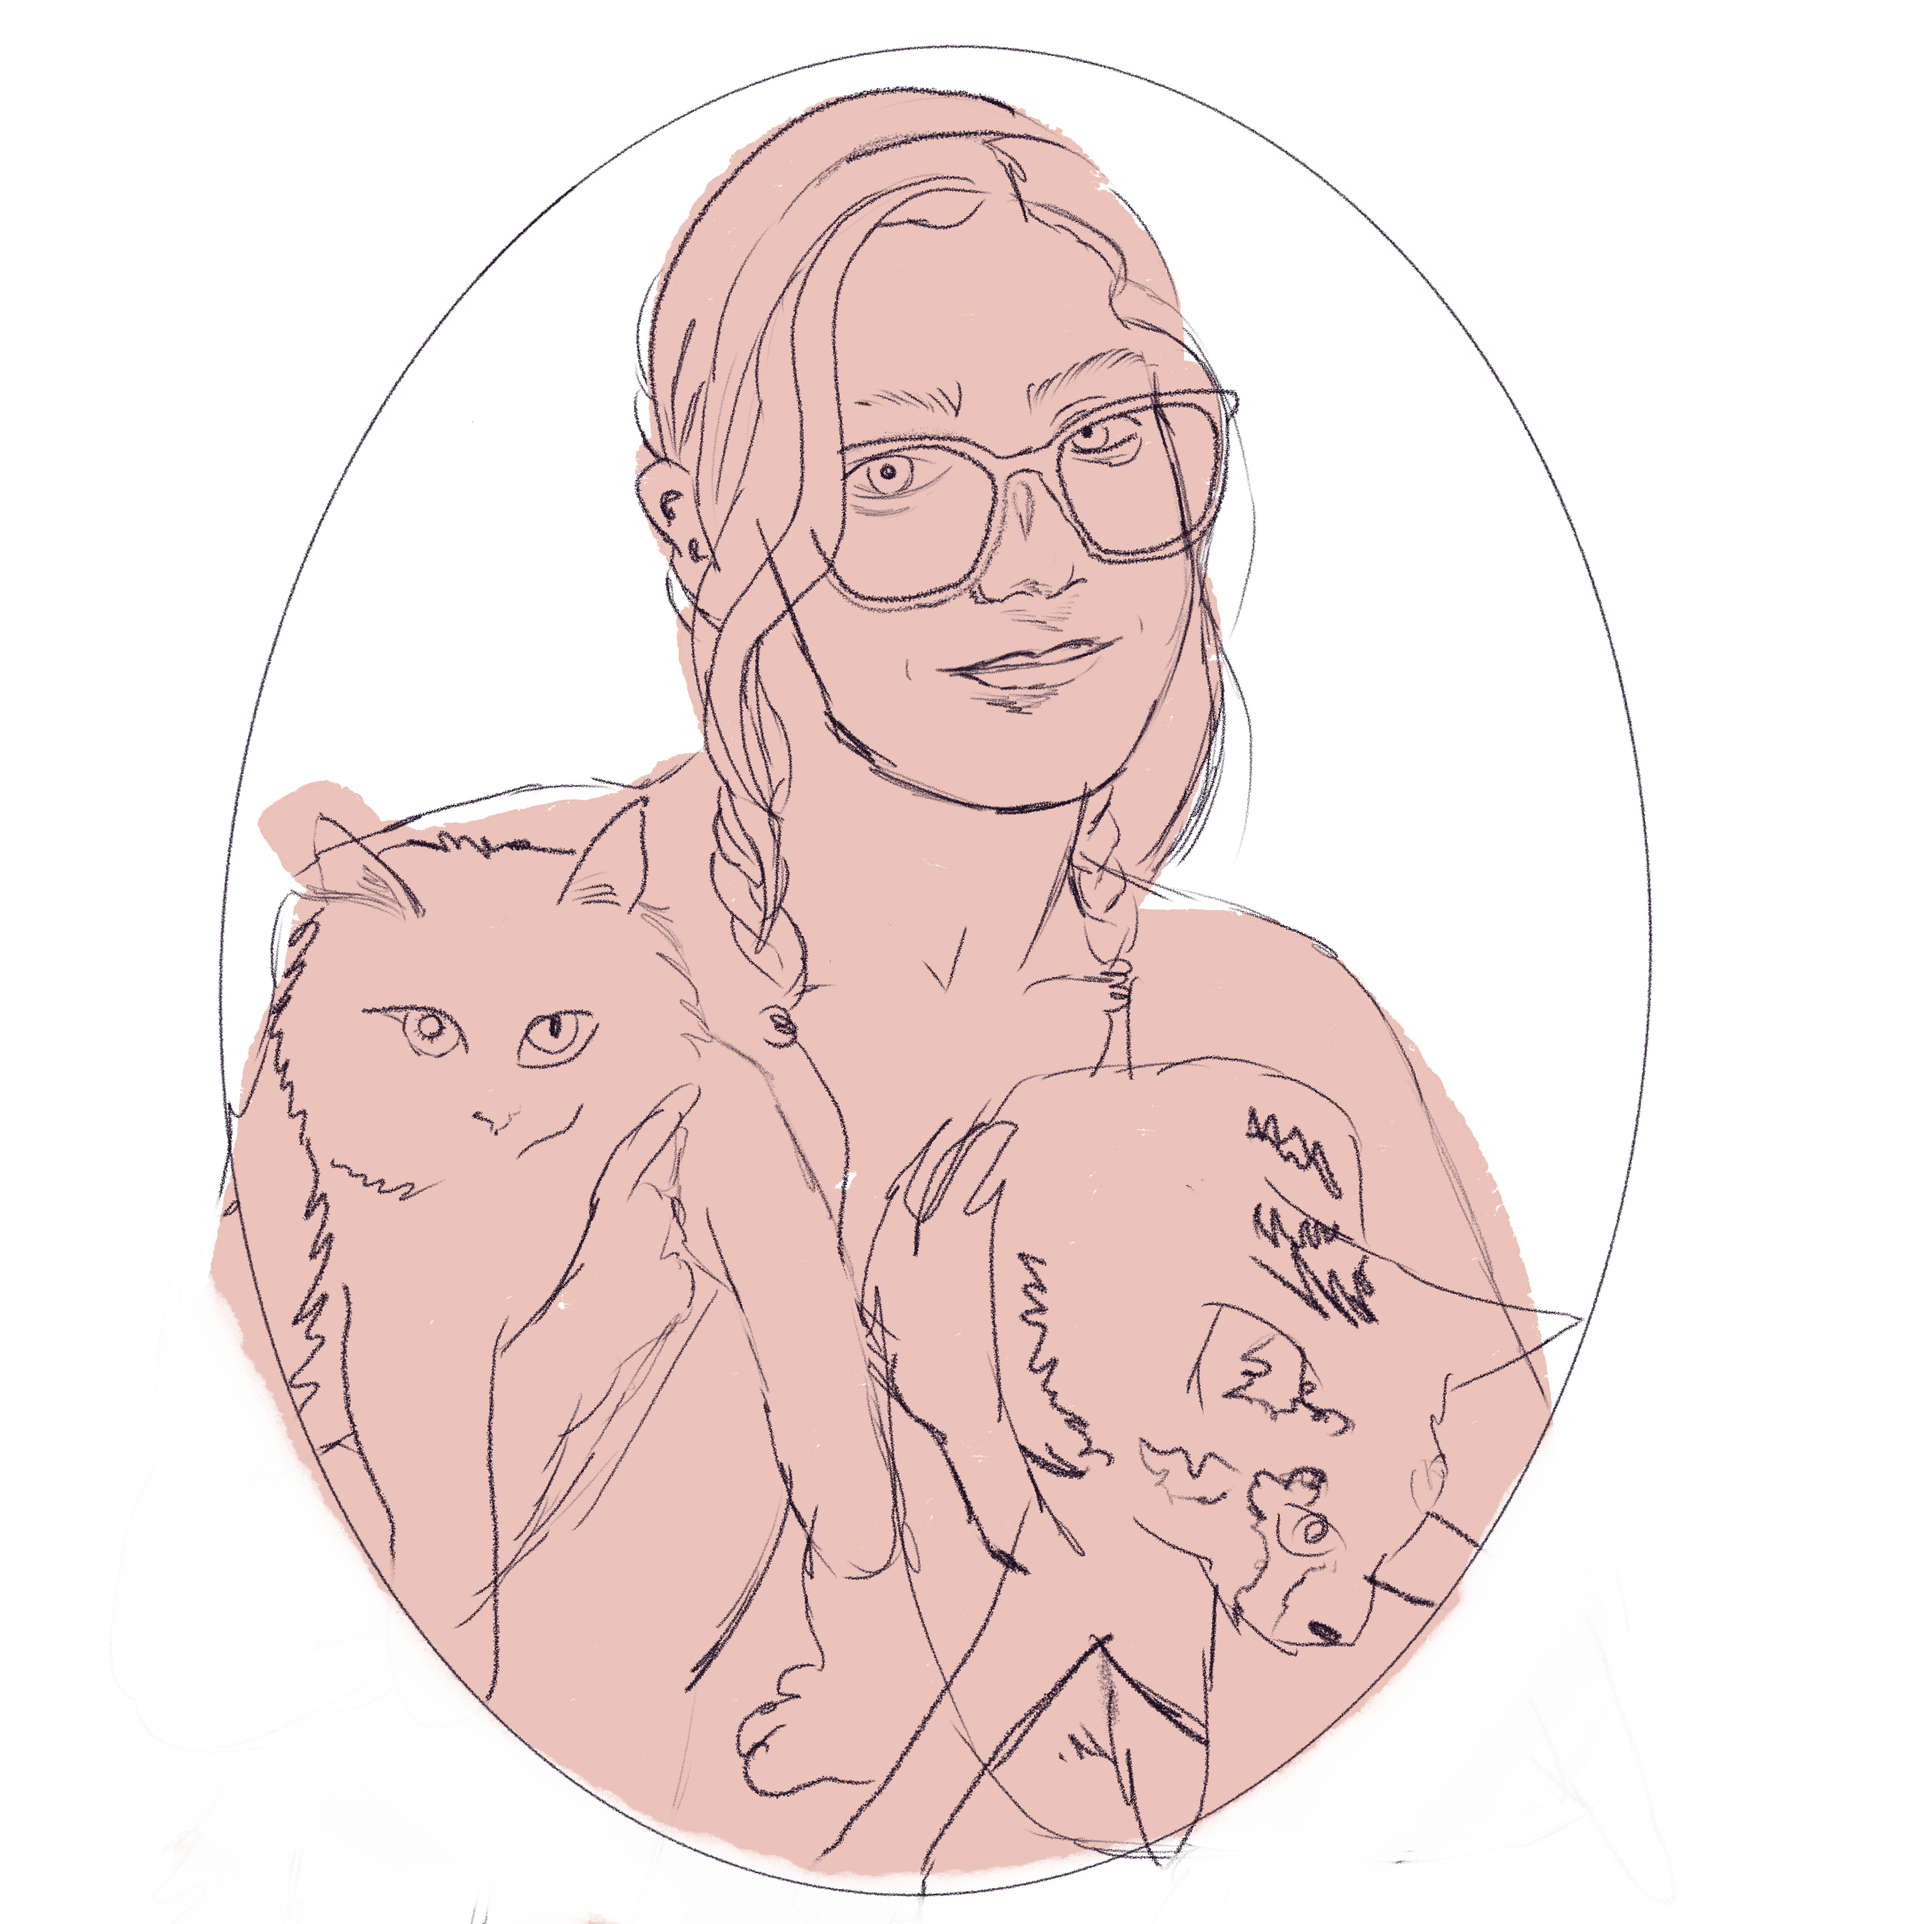
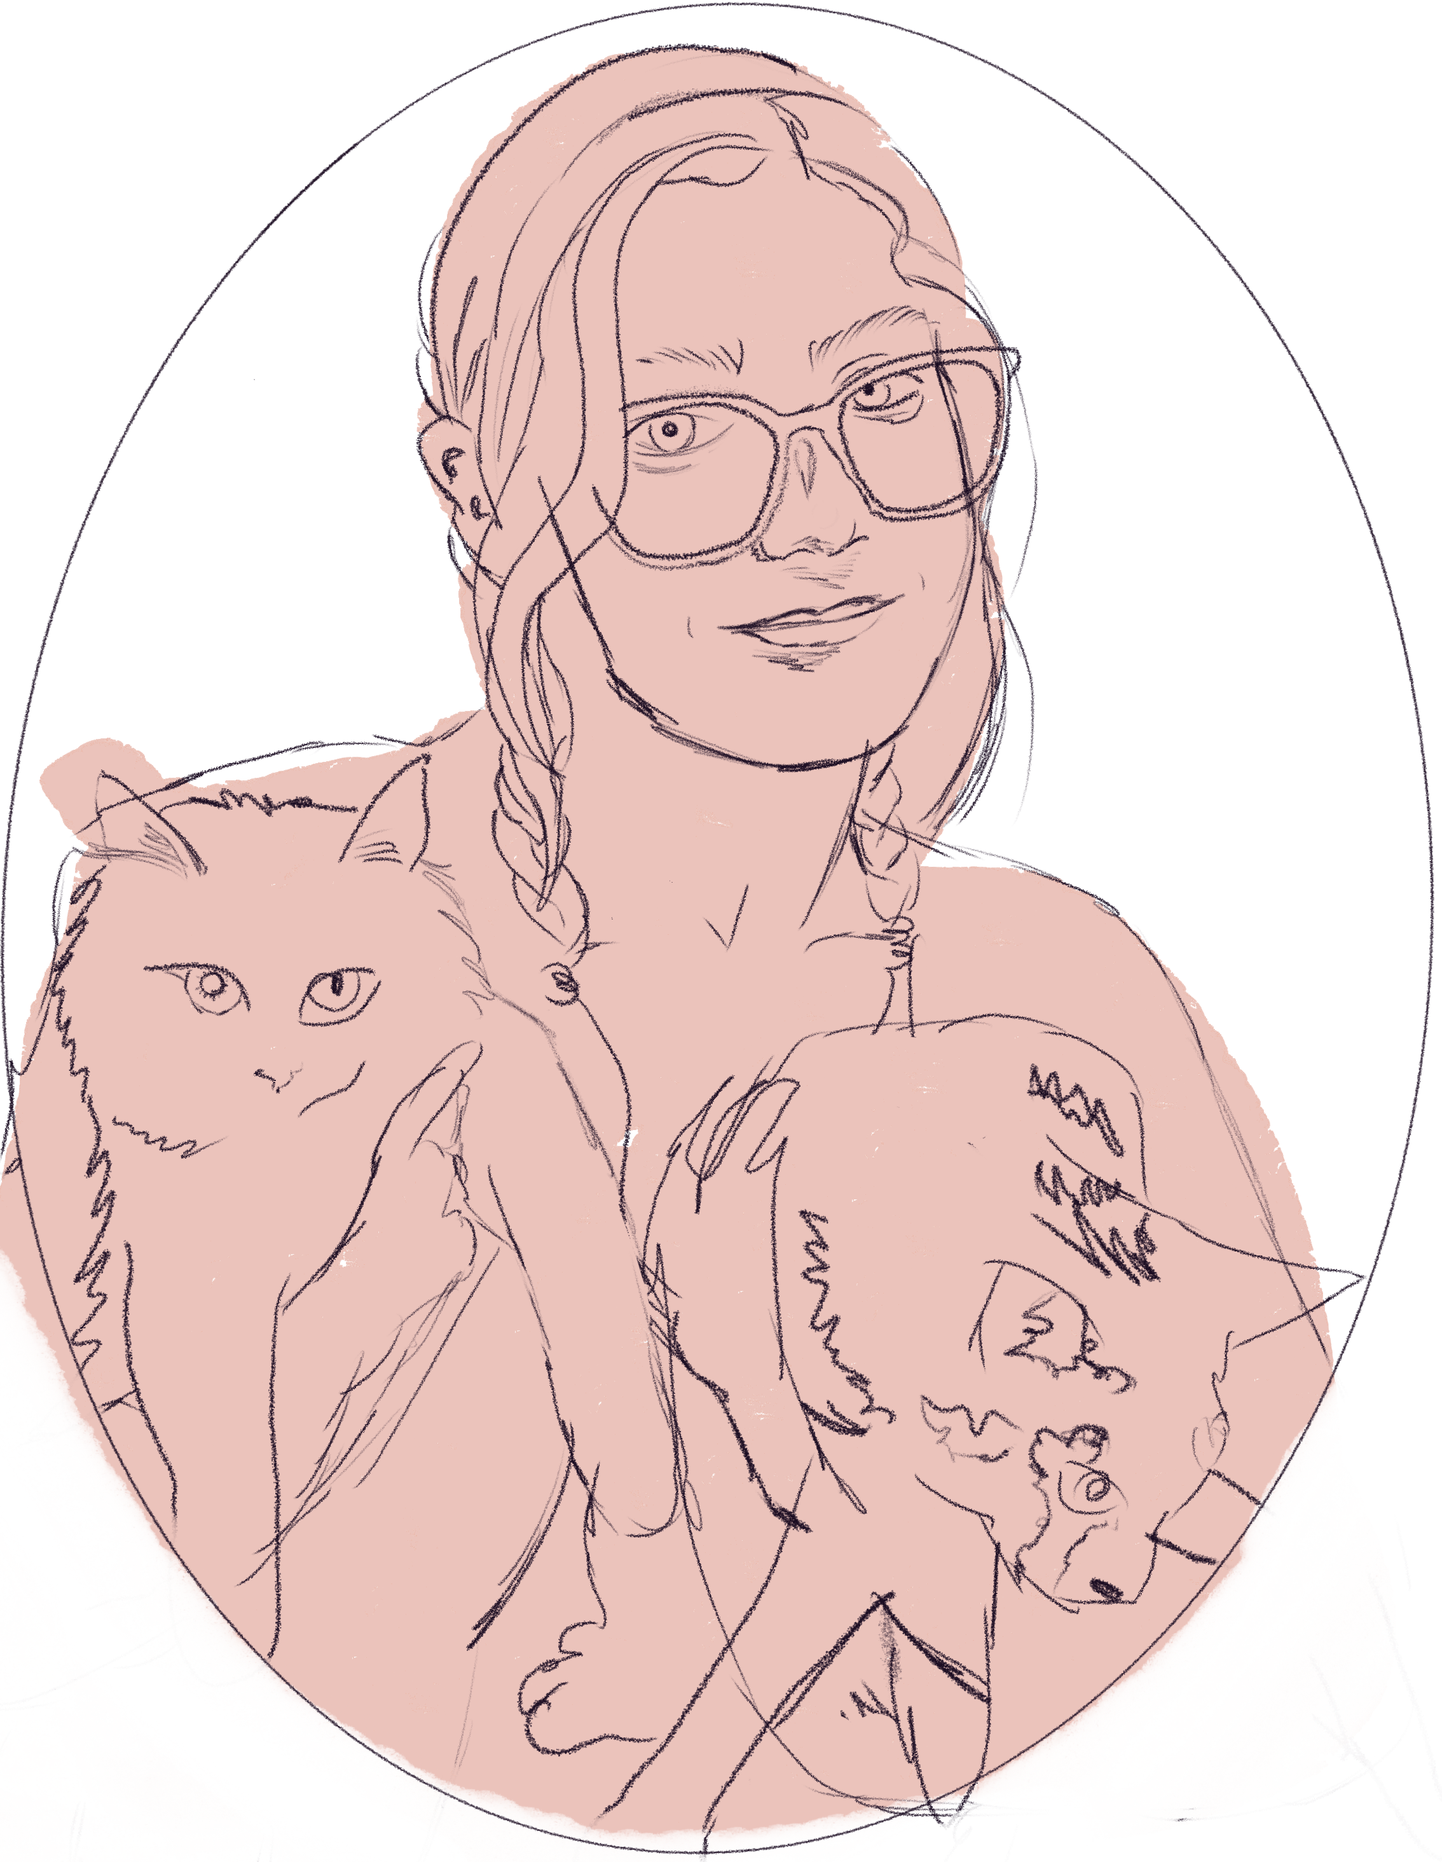
some styling changes for landing mostly

diff --git a/src/styles/lib/_landing.scss b/src/styles/lib/_landing.scss
@@ -1,23 +1,36 @@
 @use 'variables' as vars;
-#landing img {
-    height: 75vh;
 
-}
 #landing {
-    overflow-x: hidden;
+  margin-top: -56px;
 }
 
+#landing img {
+    width: 100%;
+
+    object-fit: contain;
+}
+
+#landing .row {
+    //background-color: green;
+    height: 100vh;
+}
+
+#val-sketch {
+ //   background-color: red;
+}
+.overlay-text, #val-sketch {
+   
+    display: flex;
+    flex-flow: column;
+    justify-content: center;
+}
+
+#landing .overlay-text {
+    border-radius: 0;
+}
 .subheading {
     color: vars.$hello;
 }
-//check classes 
-
-/**
-<div class="image-container">
-  <img src="your-image.jpg" alt="Background" />
-  <div class="overlay-text">This text is on top!</div>
-</div>
-*/
 
 @media (max-width: 992px) {
     .image-container {
@@ -41,5 +54,11 @@
     padding: 5px 10px;
     font-weight: bold;
     border-radius: 3px;
+    }
+    #val-sketch img {
+        height: 95vh;
+        overflow-y: hidden;
+         margin-top: 40px;
+    // height: calc(100vh - 40px);
     }
 }

diff --git a/src/views/Home.vue b/src/views/Home.vue
@@ -1,14 +1,11 @@
 <template>
   <WithNav>
-  
-    <div id="landing">
-<section class="hero-wrap js-fullheight" id="">
+<section class="" id="landing">
 
 		<div class="image-container container-fluid px-0">
-			<div class="">
-				<img class="" src="@/assets/test2.png"
-					alt="">
-				<div class="overlay-text">
+			<div class="row">
+			
+				<div class="overlay-text col-12 col-lg-6">
 					<div class="text mt-5">
 						<span class="subheading">Human Centered Designer</span>
 						<h1> Hi, I'm Valerie. </h1>
@@ -16,10 +13,13 @@
 							and software development. </p>
 					</div>
 				</div>
+        <div id="val-sketch" class="col-12 col-lg-6">
+        	<img  src="@/assets/test2.png"
+					alt="">
+          </div>
 			</div>
 		</div>
 	</section>
-  </div>
 
 
    

diff --git a/src/styles/lib/_nav.scss b/src/styles/lib/_nav.scss
@@ -1,5 +1,5 @@
 .navbar {
-    background-color: white;
+    //background-color: white;
     width: 100vw;
     z-index: 4;
     padding: 0 1rem;
@@ -10,13 +10,26 @@
   font-weight: 700;
 }
 
-#nav-holder .nav-link {
+  @media (max-width: 992px) {
+    .navbar {
+      // background-color: rgba(0, 0, 0, 0.5) !important;
+    }
+  }
 
+.sticky-target {
+  position: relative;
+  transition: all 0.3s ease;
+ 
+}
+
+.sticky {
+  position: fixed;
+  top: 0;
+  width: 100%;
+  z-index: 1000;
+  box-shadow: 0 2px 5px rgba(0, 0, 0, 0.1);
+   background-color : white !important; // try to remove that
 }
 
 
-  // @media (max-width: 992px) {
-  //   .navbar {
-  //     background-color: transparent !important;
-  //   }
-  // }
+

diff --git a/src/components/nav-bar.vue b/src/components/nav-bar.vue
@@ -52,12 +52,11 @@ export default {
   }
 };
 </script>
-
 <style scoped>
 .sticky-target {
   position: relative;
   transition: all 0.3s ease;
-  background: white;
+ 
 }
 
 .sticky {
@@ -66,6 +65,7 @@ export default {
   width: 100%;
   z-index: 1000;
   box-shadow: 0 2px 5px rgba(0, 0, 0, 0.1);
+   background-color : white !important; 
 }
 
 </style>
